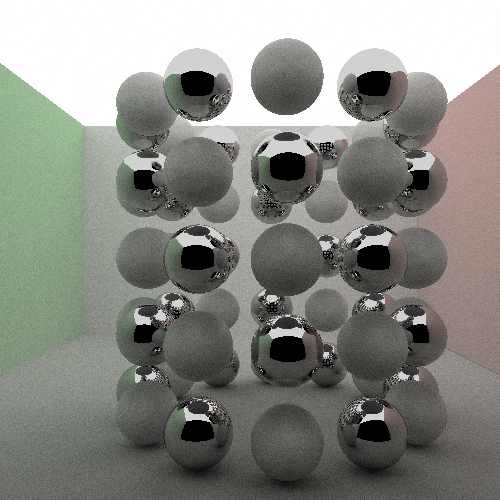
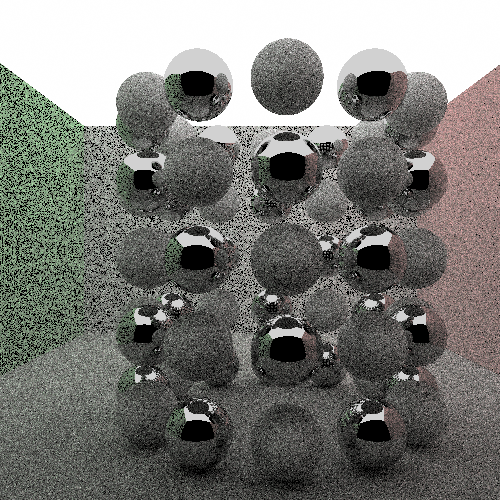
fix inclusion

diff --git a/geometry/box.go b/geometry/box.go
@@ -18,6 +18,10 @@ func (box *Box) BoundingBox() *Box {
 }
 
 func (box *Box) Intersect(ray *Ray) (bool, *Intersection) {
+	if box.Includes(ray.Origin) == true {
+		return true, NoIntersection
+	}
+
 	var normal *Vector
 	directionInverse := ray.Direction.Invert()
 	tMin := 1e-10
@@ -72,4 +76,10 @@ func (box *Box) Partition(axis Axis, medianPoint float64) (left, right bool) {
 	minPoint := box.MinPosition.GetAxis(axis)
 	maxPoint := box.MaxPosition.GetAxis(axis)
 	return minPoint <= medianPoint, maxPoint >= medianPoint
+}
+
+func (box *Box) Includes(vec *Vector) bool {
+	return vec.X > box.MinPosition.X && vec.X < box.MaxPosition.X &&
+		vec.Y > box.MinPosition.Y && vec.Y < box.MaxPosition.Y &&
+		vec.Z > box.MinPosition.Z && vec.Z < box.MaxPosition.Z
 }

diff --git a/render/node.go b/render/node.go
@@ -68,6 +68,11 @@ func (node *Node) Split(depth int) *Node {
 }
 
 func (node *Node) Intersect(ray *geometry.Ray) (bool, *geometry.Intersection, *Object) {
+	intersectsNode, _ := node.BoundingBox.Intersect(ray)
+	if intersectsNode == false {
+		return false, nil, nil
+	}
+
 	// if node.IsLeaf {
 	return node.IntersectObjects(ray)
 	// }
